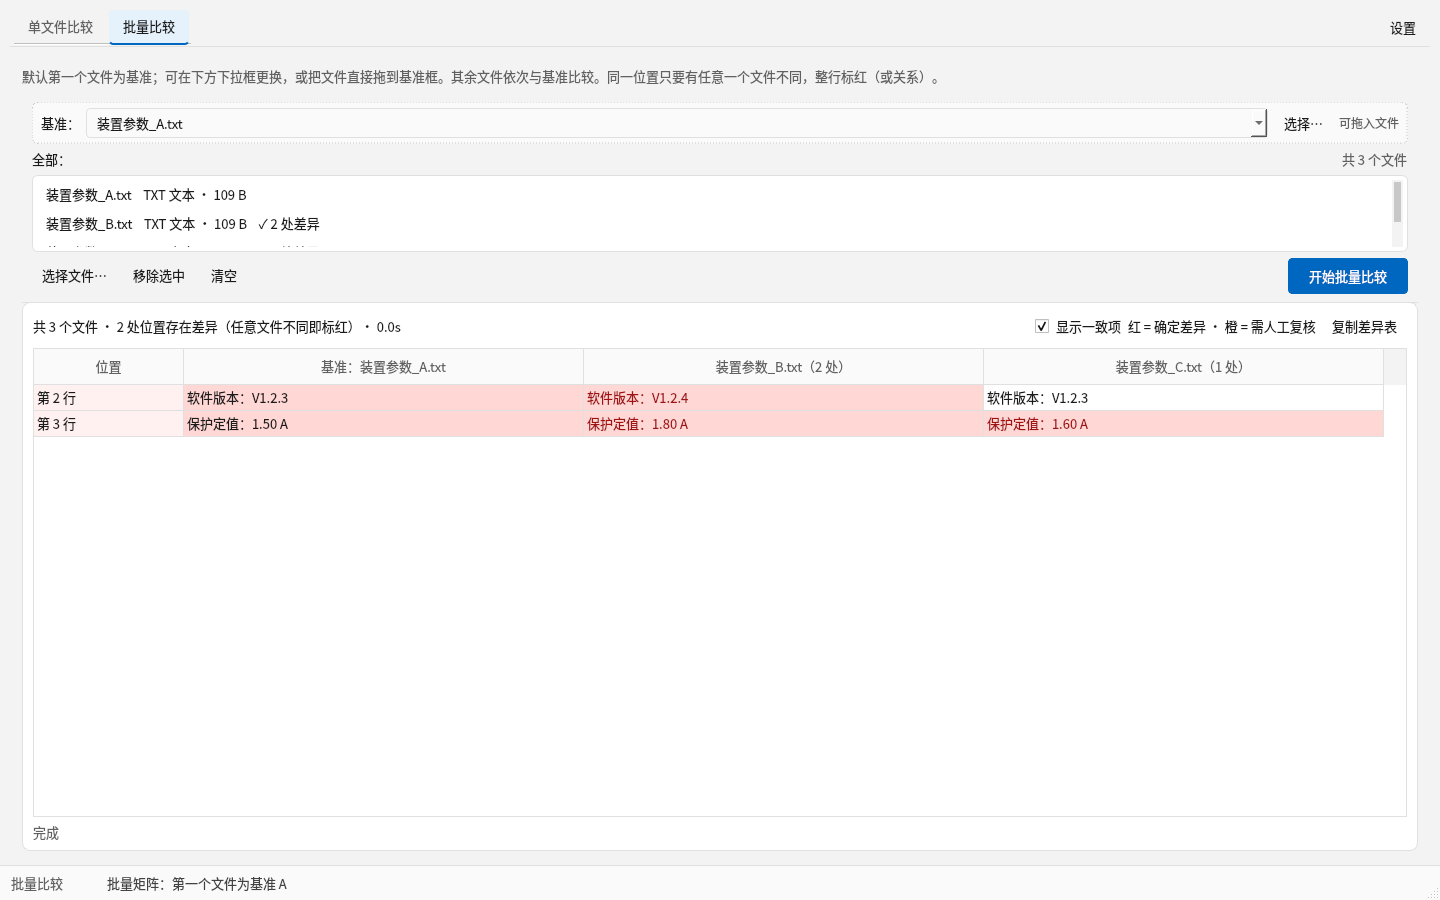
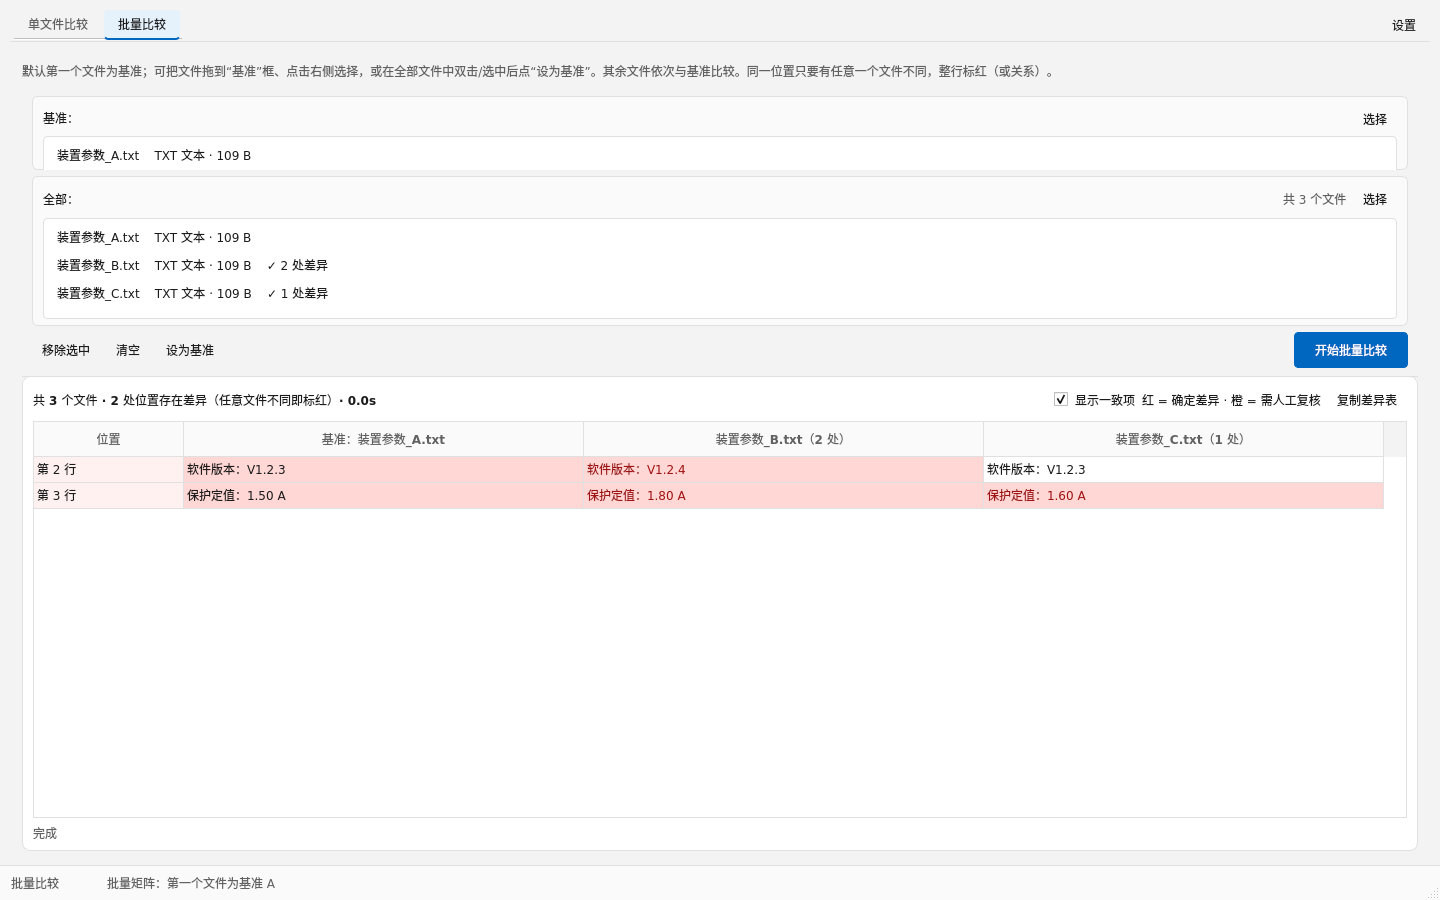
UI: unify baseline/all import boxes, both Select buttons, exact native title, all-files label

diff --git a/src/engineerdiff/ui/batch_dialog.py b/src/engineerdiff/ui/batch_dialog.py
@@ -271,8 +271,8 @@ class BatchCompareDialog(QDialog):
         self.lbl_page_title.setObjectName("pageTitle")
         root.addWidget(self.lbl_page_title)
         hint = QLabel(
-            "默认第一个文件为基准；可在下方下拉框更换，或把文件直接拖到基准框。"
-            "其余文件依次与基准比较。"
+            "默认第一个文件为基准；可把文件拖到“基准”框、点击右侧选择，"
+            "或在全部文件中双击/选中后点“设为基准”。其余文件依次与基准比较。"
             "同一位置只要有任意一个文件不同，整行标红（或关系）。"
         )
         hint.setWordWrap(True)
@@ -289,50 +289,74 @@ class BatchCompareDialog(QDialog):
         fp = QVBoxLayout(file_panel)
         fp.setContentsMargins(10, 8, 10, 8)
         fp.setSpacing(6)
+        # 基准框与全部文件框使用同一种 ImportBox 视觉；只有高度不同。
         self.baseline_zone = _BaselineDropZone()
-        self.baseline_zone.setMinimumHeight(42)
-        fph = QHBoxLayout(self.baseline_zone)
-        fph.setContentsMargins(8, 5, 8, 5)
+        self.baseline_zone.setObjectName("importBox")
+        self.baseline_zone.setMinimumHeight(74)
+        bz = QVBoxLayout(self.baseline_zone)
+        bz.setContentsMargins(10, 7, 10, 6)
+        bz.setSpacing(4)
+        fph = QHBoxLayout()
         fph.setSpacing(6)
         self.lbl_baseline = QLabel("基准：")
-        fph.addWidget(self.lbl_baseline)
-        self.combo_baseline = _BaselineCombo()
-        self.combo_baseline.setMinimumWidth(220)
-        self.combo_baseline.paths_dropped.connect(self._set_baseline_from_paths)
-        fph.addWidget(self.combo_baseline, 1)
-        self.btn_pick_baseline = QPushButton("选择…")
+        fph.addWidget(self.lbl_baseline, 1)
+        self.btn_pick_baseline = QPushButton("选择")
         self.btn_pick_baseline.setObjectName("tool")
-        self.btn_pick_baseline.setToolTip("手动选择基准文件；也可以直接把文件拖到这一行")
+        self.btn_pick_baseline.setToolTip("手动选择基准文件；也可以把文件直接拖到这一框")
         fph.addWidget(self.btn_pick_baseline)
-        self.lbl_baseline_hint = QLabel("可拖入文件")
-        fph.addWidget(self.lbl_baseline_hint)
         self.baseline_zone.paths_dropped.connect(self._set_baseline_from_paths)
+        # 隐藏的 combo 只用于维护当前基准路径；界面上显示为单行文件框。
+        self.combo_baseline = _BaselineCombo(self.baseline_zone)
+        self.combo_baseline.setVisible(False)
+        self.combo_baseline.setMinimumWidth(220)
+        self.baseline_list = _FileList(self.baseline_zone)
+        self.baseline_list.setMaximumHeight(46)
+        self.baseline_list.setMinimumHeight(38)
+        self.baseline_list.setToolTip("拖动文件到基准框可设为基准；也可点击右侧“选择”")
+        self.baseline_list.paths_dropped.connect(self._set_baseline_from_paths)
+        bz.addLayout(fph)
+        bz.addWidget(self.baseline_list, 1)
         self.baseline_zone.install_drop_proxy()
         fp.addWidget(self.baseline_zone)
 
-        all_head = QHBoxLayout()
+        # 全部文件框
+        self.all_zone = _BaselineDropZone()
+        self.all_zone.setObjectName("importBox")
+        self.all_zone.setMinimumHeight(150)
+        az = QVBoxLayout(self.all_zone)
+        az.setContentsMargins(10, 7, 10, 6)
+        az.setSpacing(4)
+        ah = QHBoxLayout()
+        ah.setSpacing(6)
         self.lbl_all = QLabel("全部：")
-        all_head.addWidget(self.lbl_all)
-        all_head.addStretch(1)
+        ah.addWidget(self.lbl_all)
+        ah.addStretch(1)
         self.lbl_count = QLabel("共 0 个文件")
-        all_head.addWidget(self.lbl_count)
-        fp.addLayout(all_head)
-
-        self.file_list = _FileList()
+        ah.addWidget(self.lbl_count)
+        self.btn_add = QPushButton("选择")
+        self.btn_add.setObjectName("tool")
+        self.btn_add.setToolTip("手动选择一个或多个文件加入全部文件")
+        ah.addWidget(self.btn_add)
+        self.all_zone.paths_dropped.connect(self._add_paths)
+        self.file_list = _FileList(self.all_zone)
         self.file_list.setMaximumHeight(150)
         self.file_list.paths_dropped.connect(self._add_paths)
-        fp.addWidget(self.file_list, 1)
+        az.addLayout(ah)
+        az.addWidget(self.file_list, 1)
+        self.all_zone.install_drop_proxy()
+        fp.addWidget(self.all_zone, 1)
 
         btn_row = QHBoxLayout()
-        self.btn_add = QPushButton("选择文件…")
-        self.btn_add.setObjectName("tool")
         self.btn_remove = QPushButton("移除选中")
         self.btn_remove.setObjectName("tool")
         self.btn_clear = QPushButton("清空")
         self.btn_clear.setObjectName("tool")
-        btn_row.addWidget(self.btn_add)
+        self.btn_set_baseline = QPushButton("设为基准")
+        self.btn_set_baseline.setObjectName("tool")
+        self.btn_set_baseline.setToolTip("把全部文件中选中的文件设为基准")
         btn_row.addWidget(self.btn_remove)
         btn_row.addWidget(self.btn_clear)
+        btn_row.addWidget(self.btn_set_baseline)
         btn_row.addStretch(1)
         self.btn_start = QPushButton("开始批量比较")
         self.btn_start.setObjectName("primary")
@@ -407,6 +431,8 @@ class BatchCompareDialog(QDialog):
 
         self.btn_add.clicked.connect(self._choose_files)
         self.btn_pick_baseline.clicked.connect(self._choose_baseline)
+        self.btn_set_baseline.clicked.connect(self._set_baseline_from_selection)
+        self.file_list.itemDoubleClicked.connect(self._set_baseline_from_item)
         self.btn_remove.clicked.connect(self._remove_selected)
         self.btn_clear.clicked.connect(self.file_list.clear)
         self.btn_start.clicked.connect(self._start)
@@ -441,24 +467,27 @@ class BatchCompareDialog(QDialog):
         self.lbl_status.setStyleSheet(f"color:{p.text_secondary};")
         self.lbl_result_empty.setStyleSheet(f"color:{p.text_secondary};")
         self.lbl_all.setStyleSheet(f"font-weight:600;color:{p.text};")
-        self.lbl_baseline_hint.setStyleSheet(f"color:{p.text_secondary};font-size:9pt;")
-        self.baseline_zone.setStyleSheet(
-            f"QFrame#baselineZone {{ background:{p.secondary_surface};"
-            f"border:1px dashed {p.border_strong}; border-radius:6px; }}"
+        box_style = (
+            f"QFrame#importBox {{ background:{p.secondary_surface};"
+            f"border:1px solid {p.divider}; border-radius:6px; }}"
         )
+        self.baseline_zone.setStyleSheet(box_style)
+        self.all_zone.setStyleSheet(box_style)
         self.table.setStyleSheet(
             f"QTableWidget {{ background:{p.card_bg}; border:1px solid {p.divider};"
             f"gridline-color:{p.divider}; color:{p.text}; }}"
             f"QTableWidget::item {{ padding:4px 6px; }}"
             f"QTableWidget::item:selected {{ background:{p.accent_soft}; color:{p.text}; }}"
         )
-        self.file_list.setStyleSheet(
+        list_style = (
             f"QListWidget {{ background:{p.card_bg}; border:1px solid {p.divider};"
-            f"border-radius:6px;padding:4px;color:{p.text}; }}"
+            f"border-radius:4px;padding:4px;color:{p.text}; }}"
             f"QListWidget::item {{ padding:5px 6px; border-radius:4px; }}"
             f"QListWidget::item:hover {{ background:{p.hover_surface}; }}"
             f"QListWidget::item:selected {{ background:{p.accent_soft}; color:{p.text}; }}"
         )
+        self.file_list.setStyleSheet(list_style)
+        self.baseline_list.setStyleSheet(list_style)
         for frame in self.findChildren(QFrame):
             if frame.objectName() == "filePanel":
                 frame.setStyleSheet(
@@ -516,7 +545,22 @@ class BatchCompareDialog(QDialog):
                     break
             except Exception:
                 continue
+        self._refresh_file_count()
         self.lbl_status.setText("基准已切换；点击“重新比较”生成新的差异矩阵。")
+
+    def _set_baseline_from_selection(self) -> None:
+        items = self.file_list.selectedItems()
+        if not items:
+            self.lbl_status.setText("请先在全部文件列表中选择一个文件。")
+            return
+        path = items[0].data(Qt.ItemDataRole.UserRole)
+        if path:
+            self._set_baseline_from_paths([path])
+
+    def _set_baseline_from_item(self, item: QListWidgetItem) -> None:
+        path = item.data(Qt.ItemDataRole.UserRole)
+        if path:
+            self._set_baseline_from_paths([path])
 
     def _choose_baseline(self) -> None:
         path, _ = QFileDialog.getOpenFileName(
@@ -558,6 +602,25 @@ class BatchCompareDialog(QDialog):
         else:
             self.combo_baseline.setEnabled(False)
         self.combo_baseline.blockSignals(False)
+        baseline = self.combo_baseline.currentData() or (paths[0] if paths else "")
+        self.baseline_list.clear()
+        p = theme.palette()
+        if baseline:
+            try:
+                info = classify(baseline)
+                label = f"{info.name}    {info.type_label} · {info.human_size}"
+            except Exception:
+                label = Path(baseline).name
+            item = QListWidgetItem(label)
+            item.setData(Qt.ItemDataRole.UserRole, baseline)
+            item.setToolTip(baseline)
+            item.setFlags(Qt.ItemFlag.ItemIsEnabled)
+            self.baseline_list.addItem(item)
+        else:
+            item = QListWidgetItem("拖入或选择基准文件")
+            item.setFlags(Qt.ItemFlag.NoItemFlags)
+            item.setForeground(QBrush(QColor(p.text_secondary)))
+            self.baseline_list.addItem(item)
 
     # ------------------------------------------------------------------ run
     def _start(self) -> None:
@@ -672,9 +735,11 @@ class BatchCompareDialog(QDialog):
         self.btn_remove.setEnabled(not running)
         self.btn_clear.setEnabled(not running)
         self.file_list.setEnabled(not running)
+        self.baseline_list.setEnabled(not running)
         self.combo_baseline.setEnabled(not running and self.file_list.count() > 0)
         self.btn_pick_baseline.setEnabled(not running)
         self.baseline_zone.setEnabled(not running)
+        self.all_zone.setEnabled(not running)
         self.btn_cancel.setVisible(running)
         self.btn_cancel.setEnabled(running)
 

diff --git a/docs/user-guide.md b/docs/user-guide.md
@@ -131,10 +131,10 @@ EngineerDiff-1.2.2-Setup-x64.exe /VERYSILENT /SUPPRESSMSGBOXES /NORESTART
 
 点击顶部 **“批量比较”** 标签：
 
-1. 文件列表上方的“基准”下拉框选择基准文件（默认第一个），也可以把文件从资源管理器
-   直接拖到基准框上设为基准；其余文件依次与基准比较。比较完成后可直接更换基准并重新比较，
-   OCR 结果会命中缓存；
-2. 支持通过“添加文件…”或直接拖入窗口添加文件，支持一次选择多个；
+1. “基准”和“全部”是两个同样式的文件框，只有“全部”框更大；默认第一个文件为基准。
+   可以把文件从资源管理器直接拖到“基准”框，或点右侧“选择”；也可以在“全部”框中
+   双击文件，或选中后点下方“设为基准”。基准文件一定会同步出现在“全部”框中；
+2. “全部”框右侧“选择”可手动选择一个或多个文件，也支持直接拖入；
 3. 点击“开始批量比较”，生成差异矩阵：行为差异位置，列为基准和每个候选文件；
 4. **只要是任意一个候选文件在该位置与基准不同，整行/对应单元格标红**（或关系），
    每个候选自己的差异单元格会加深标红；橙色表示 OCR/公式等需要人工复核；
